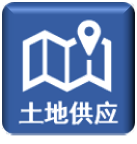
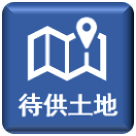
文字图片替换
文字图片替换

diff --git a/CPPartGIS/config/widgetConfig.js b/CPPartGIS/config/widgetConfig.js
@@ -302,16 +302,16 @@ var layerConfigs = [{
 				label:"全部",
 				value:""
 			},{
-				label:"科技园区",
+				label:"昌平园东西区组团",
 				value:"科技园区"
 			},{
-				label:"未来科学城",
+				label:"未来科学城组团",
 				value:"未来科学城"
 			},{
-				label:"生命科学园",
+				label:"生命科学园组团",
 				value:"生命科学园"
 			},{
-				label:"昌发展",
+				label:"昌发展组团",
 				value:"昌发展"
 			}]
 		},
@@ -421,19 +421,19 @@ var layerConfigs = [{
 			},
 			selectOptions:[{
 				label:"全部",
-				value:"",
+				value:""
 			},{
-				label:"科技园区",
-				value:"科技园区",
+				label:"昌平园东西区组团",
+				value:"科技园区"
 			},{
-				label:"未来科学城",
-				value:"未来科学城",
+				label:"未来科学城组团",
+				value:"未来科学城"
 			},{
-				label:"生命科学园",
-				value:"生命科学园",
+				label:"生命科学园组团",
+				value:"生命科学园"
 			},{
-				label:"昌发展",
-				value:"昌发展",
+				label:"昌发展组团",
+				value:"昌发展"
 			}]
 		},{
 			searchType:"numList",
@@ -552,19 +552,19 @@ var layerConfigs = [{
 			},
 			selectOptions:[{
 				label:"全部",
-				value:"",
+				value:""
 			},{
-				label:"科技园区",
-				value:"科技园区",
+				label:"昌平园东西区组团",
+				value:"科技园区"
 			},{
-				label:"未来科学城",
-				value:"未来科学城",
+				label:"未来科学城组团",
+				value:"未来科学城"
 			},{
-				label:"生命科学园",
-				value:"生命科学园",
+				label:"生命科学园组团",
+				value:"生命科学园"
 			},{
-				label:"昌发展",
-				value:"昌发展",
+				label:"昌发展组团",
+				value:"昌发展"
 			}]
 		},{
 			searchType:"numList",
@@ -675,19 +675,19 @@ var layerConfigs = [{
 			},
 			selectOptions:[{
 				label:"全部",
-				value:"",
+				value:""
 			},{
-				label:"科技园区",
-				value:"科技园区",
+				label:"昌平园东西区组团",
+				value:"科技园区"
 			},{
-				label:"未来科学城",
-				value:"未来科学城",
+				label:"未来科学城组团",
+				value:"未来科学城"
 			},{
-				label:"生命科学园",
-				value:"生命科学园",
+				label:"生命科学园组团",
+				value:"生命科学园"
 			},{
-				label:"昌发展",
-				value:"昌发展",
+				label:"昌发展组团",
+				value:"昌发展"
 			}]
 		},
 		{
@@ -706,13 +706,13 @@ var layerConfigs = [{
 				label:"＜2",
 				value:"0-2"
 			},{
-				label:"0-2",
-				value:"0-2"
+				label:"2-5",
+				value:"2-5"
 			},{
 				label:"5-10",
 				value:"5-10"
 			},{
-				label:"'＞10",
+				label:"＞10",
 				value:"10-999999"
 			}]
 		},

diff --git a/CPPartGIS/index.html b/CPPartGIS/index.html
@@ -1,4 +1,4 @@
-<!DOCTYPE html>
+<!DOCTYPE html>
 <html>
 <head>
     <meta http-equiv="Content-Type" content="text/html; charset=utf-8" />
@@ -250,7 +250,7 @@
         </div>
         <div id="infoPanel" style="overflow-y:auto;height:70%;padding:0px 10px;"></div>
         <div id="btnPanel" style="height:15%;width:100%;text-align:center;">
-            <input id="btnMedia" type="button" class="btn btn-primary" value="多媒体展示" style="width:30%;">
+            <input id="btnMedia" type="button" class="btn btn-primary" value="现状图片" style="width:30%;">
             <input id="btnRound" type="button" class="btn btn-primary" value="周边环境" style="width:30%;">
         </div>
     </div>

diff --git a/CPPartGIS/page/media.html b/CPPartGIS/page/media.html
@@ -31,11 +31,11 @@
             <img src="img/icon/back.png" style="width:30px;" />
         </div>
         <div style="height:30px;line-height:30px;font-weight:600;">
-            多媒体展示
+            现状图片
         </div>
     </div>
     <div id="mediPicture" class="mediPicture" style="margin-top:60px;">
-        没有多媒体信息
+        当前没有现状图片
     </div>
     <div style="position:absolute; width:100%;bottom: 5em;">
         <input id="btnBack_media" type="button" class="btn btn-primary" value="返回" style="width:100%;">

diff --git a/CPPartGIS/page/search.html b/CPPartGIS/page/search.html
@@ -1,4 +1,4 @@
-<!DOCTYPE html>
+<!DOCTYPE html>
 <html>
 <head>
 	
@@ -27,10 +27,10 @@
                 存量建筑
             </li>
             <li id="cnd_njxm"> 
-                拟建项目
+                拟建续建
             </li>
             <li id="cnd_tdgy"> 
-                土地供应
+                待供土地
             </li>
         </ul>
         <div style="padding:10px;"> 
